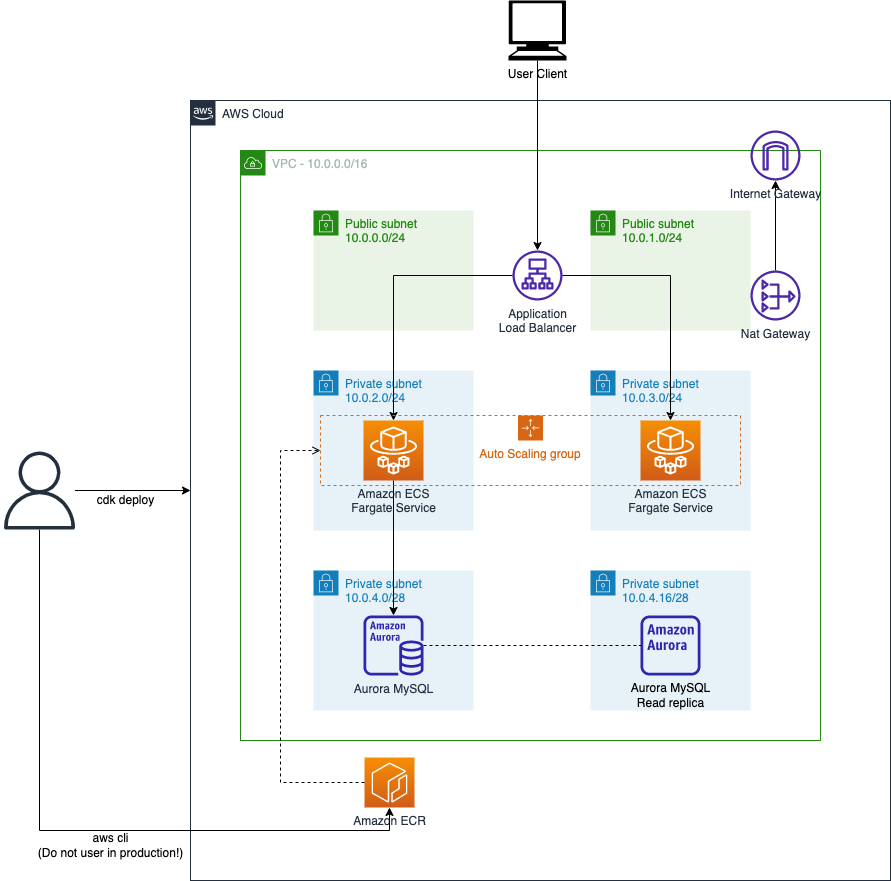
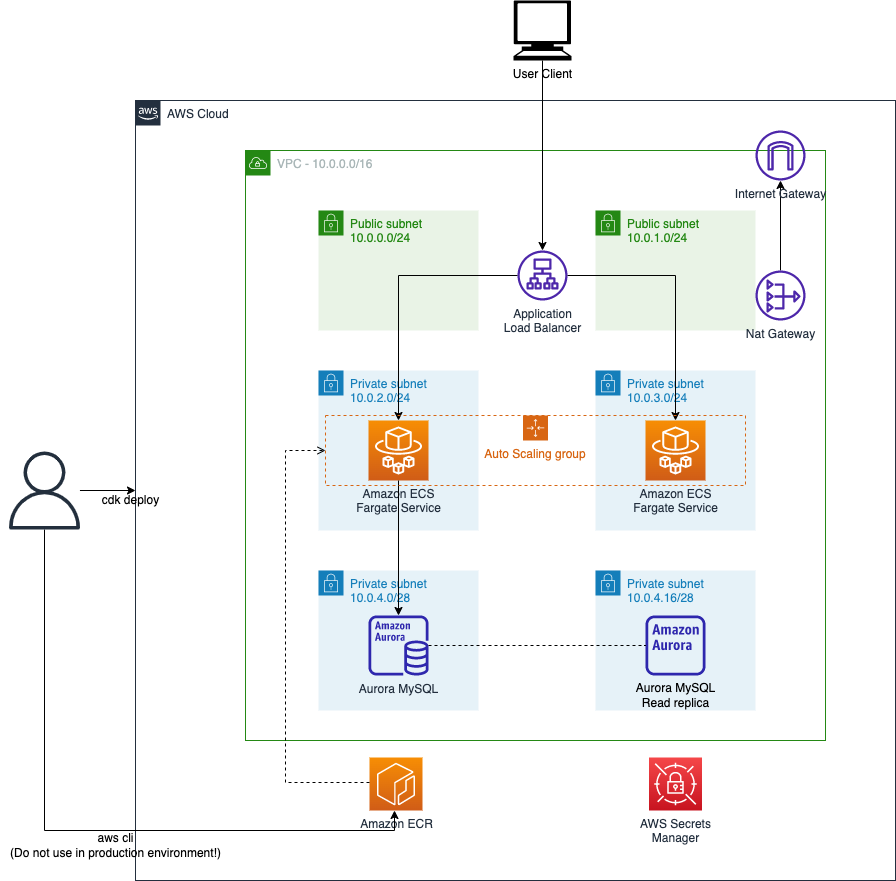
Modify stacks

diff --git a/lib/cdk-eda-workshop-stack.ts b/lib/cdk-eda-workshop-stack.ts
@@ -1,4 +1,4 @@
-import * as cdk from 'aws-cdk-lib';
+import { Stack, StackProps, RemovalPolicy } from 'aws-cdk-lib';
 import { Construct } from 'constructs';
 import * as iam from 'aws-cdk-lib/aws-iam'
 import * as ec2 from 'aws-cdk-lib/aws-ec2';
@@ -7,20 +7,29 @@ import * as ecs from "aws-cdk-lib/aws-ecs";
 import * as ecsPatterns from "aws-cdk-lib/aws-ecs-patterns";
 import * as ecr from 'aws-cdk-lib/aws-ecr';
 import { IpAddresses } from 'aws-cdk-lib/aws-ec2';
+import * as secretsmanager from 'aws-cdk-lib/aws-secretsmanager'
+import { ApplicationProtocol } from 'aws-cdk-lib/aws-elasticloadbalancingv2';
 // import * as sqs from 'aws-cdk-lib/aws-sqs';
 
-export class EdaWSNetworkStack extends cdk.Stack {
+export class EdaWSNetworkStack extends Stack {
   public readonly vpc: ec2.Vpc;
   public readonly repository: ecr.Repository;
+  public readonly databaseCluster: rds.DatabaseCluster;
 
-  constructor(scope: Construct, id: string, props?: cdk.StackProps) {
+  constructor(scope: Construct, id: string, props?: StackProps) {
     super(scope, id, props);
 
     const cidr = '10.0.0.0/16';
 
     // ECR
+    const repoName = "eda-sample-coffee-app";
+    const repoExistCheck = ecr.Repository.fromRepositoryName(this, 'EdaEcrRepositoryCheck', repoName);
+    console.log(repoExistCheck)
+    // const repoExist = new CfnCondition(this, "RepoExist", {
+    //   expression: Fn.if
+    // })
     this.repository = new ecr.Repository(this, "EdaEcrRepository", {
-      repositoryName: "eda-sample-coffee-app",
+      repositoryName: repoName,
     });
     
 
@@ -59,15 +68,25 @@ export class EdaWSNetworkStack extends cdk.Stack {
     });
     auroraSecurityGroup.addIngressRule(ec2.Peer.ipv4(cidr), ec2.Port.tcp(3306), 'aurora mysql inbound')
 
+    const auroraSecret = new secretsmanager.Secret(this, 'AuroraSecret', {
+      secretName: '/secret/db/eda-ws-coffee',
+      generateSecretString: {
+        secretStringTemplate: JSON.stringify({
+          username: "edasample",
+        }),
+        generateStringKey: 'password',
+        excludePunctuation: true,
+        includeSpace: false,
+      },
+    });
 
-    const auroraCluster = new rds.DatabaseCluster(this, 'EdaSampleDB', {
+    this.databaseCluster = new rds.DatabaseCluster(this, 'EdaSampleDB', {
       defaultDatabaseName: 'dbEdaCoffee',
-      engine: rds.DatabaseClusterEngine.auroraMysql({version: rds.AuroraMysqlEngineVersion.VER_3_02_1}),
-      credentials: rds.Credentials.fromGeneratedSecret('edasample', {
-        secretName: 'db-secret-eda-ws-coffee',
+      engine: rds.DatabaseClusterEngine.auroraMysql({
+        version: rds.AuroraMysqlEngineVersion.VER_3_02_0
       }),
       instanceProps: {
-        instanceType: ec2.InstanceType.of(ec2.InstanceClass.BURSTABLE3, ec2.InstanceSize.MEDIUM),
+        instanceType: ec2.InstanceType.of(ec2.InstanceClass.T3, ec2.InstanceSize.LARGE),
         vpcSubnets: {
           subnetType: ec2.SubnetType.PRIVATE_ISOLATED
         },
@@ -76,34 +95,45 @@ export class EdaWSNetworkStack extends cdk.Stack {
         securityGroups: [
           auroraSecurityGroup
         ],
-        
       },
+      credentials: rds.Credentials.fromSecret(auroraSecret),
+      removalPolicy: RemovalPolicy.DESTROY,
     });
   }
 }
 
 // Shrae resources between stacks
-interface EdaWsEcsStackProps extends cdk.StackProps {
+interface EdaWsEcsStackProps extends StackProps {
   vpc: ec2.Vpc;
   repository: ecr.Repository;
+  databaseCluster: rds.DatabaseCluster;
 }
 
-export class EdaWSEcsStack extends cdk.Stack {
+export class EdaWSEcsStack extends Stack {
   constructor(scope: Construct, id: string, props: EdaWsEcsStackProps) {
     super(scope, id, props);
 
-    const {vpc, repository} = props;
+    const {vpc, repository, databaseCluster} = props;
 
     // IAM Policy for ECS
-    const ecsPolicy = new iam.PolicyStatement({
+    const ecsTaskPolicy = new iam.PolicyStatement({
       resources: ['*'],
       actions: [
         "secretsmanager:GetSecretValue",
+        "kms:Decrypt",
+        "rds:*"
+      ],
+    });
+    const ecsExecutionPolicy = new iam.PolicyStatement({
+      resources: ['*'],
+      actions: [
         "ecr:BatchCheckLayerAvailability",
         "ecr:GetDownloadUrlForLayer",
         "ecr:BatchGetImage",
+        "secretsmanager:GetSecretValue",
+        "kms:Decrypt",
       ],
-    })
+    });
 
     // ECS Cluster, Task Definition, ALB
     const cluster = new ecs.Cluster(this, "EdaEcsCluster", {
@@ -124,29 +154,34 @@ export class EdaWSEcsStack extends cdk.Stack {
         environment: {
           SPRING_PROFILES_ACTIVE: "dev",
         },
+        containerPort: 8080,
+        containerName: 'coffee-app'
       },
       taskSubnets: {
         subnetType: ec2.SubnetType.PRIVATE_WITH_EGRESS,
       },
+      targetProtocol: ApplicationProtocol.HTTP,
     });
-    loadBalancedFargateService.taskDefinition.addToTaskRolePolicy(ecsPolicy)
+    
+    loadBalancedFargateService.taskDefinition.addToExecutionRolePolicy(ecsExecutionPolicy);
+    loadBalancedFargateService.taskDefinition.addToTaskRolePolicy(ecsTaskPolicy);
 
     loadBalancedFargateService.targetGroup.configureHealthCheck({
-      path: "/",
+      path: "/actuator/health",
     });
   }
 }
 
-export class EdaWSSqsStack extends cdk.Stack {
-  constructor(scope: Construct, id: string, props?: cdk.StackProps) {
+export class EdaWSSqsStack extends Stack {
+  constructor(scope: Construct, id: string, props?: StackProps) {
     super(scope, id, props);
     // TODO SQS 추가
 
   }
 }
 
-export class EdaWSSnsStack extends cdk.Stack {
-  constructor(scope: Construct, id: string, props?: cdk.StackProps) {
+export class EdaWSSnsStack extends Stack {
+  constructor(scope: Construct, id: string, props?: StackProps) {
     super(scope, id, props);
     // TODO SNS 추가
 

diff --git a/bin/cdk-eda-workshop.ts b/bin/cdk-eda-workshop.ts
@@ -14,6 +14,7 @@ const networkStack = new EdaWSNetworkStack(app, 'stack-1-infra', {
 new EdaWSEcsStack(app, 'stack-2-ecs', {
   vpc: networkStack.vpc,
   repository: networkStack.repository,
+  databaseCluster: networkStack.databaseCluster,
   env: { 
     account: process.env.CDK_DEFAULT_ACCOUNT, 
     region: process.env.CDK_DEFAULT_REGION
@@ -27,7 +28,7 @@ new EdaWSSqsStack(app, 'stack-sqs', {
   },
 });
 
-new EdaWSSqsStack(app, 'stack-sns', {
+new EdaWSSnsStack(app, 'stack-sns', {
   env: {
     account: process.env.CDK_DEFAULT_ACCOUNT, 
     region: process.env.CDK_DEFAULT_REGION

diff --git a/README.md b/README.md
@@ -50,6 +50,14 @@ It takes about 5 minutes.
 cdk deploy stack-2-ecs --require-approval never
 ```
 
+# Troubleshooting
+
+When error occured during deploy cloudformation stack and rollbacked, then delete cloudformation stack and re-deploy the stack.
+
+```
+aws cloudformation delete-stack --stack-name stack-1-infra
+```
+
 # Clean up
 
 1. Delete CloudFormation stack
